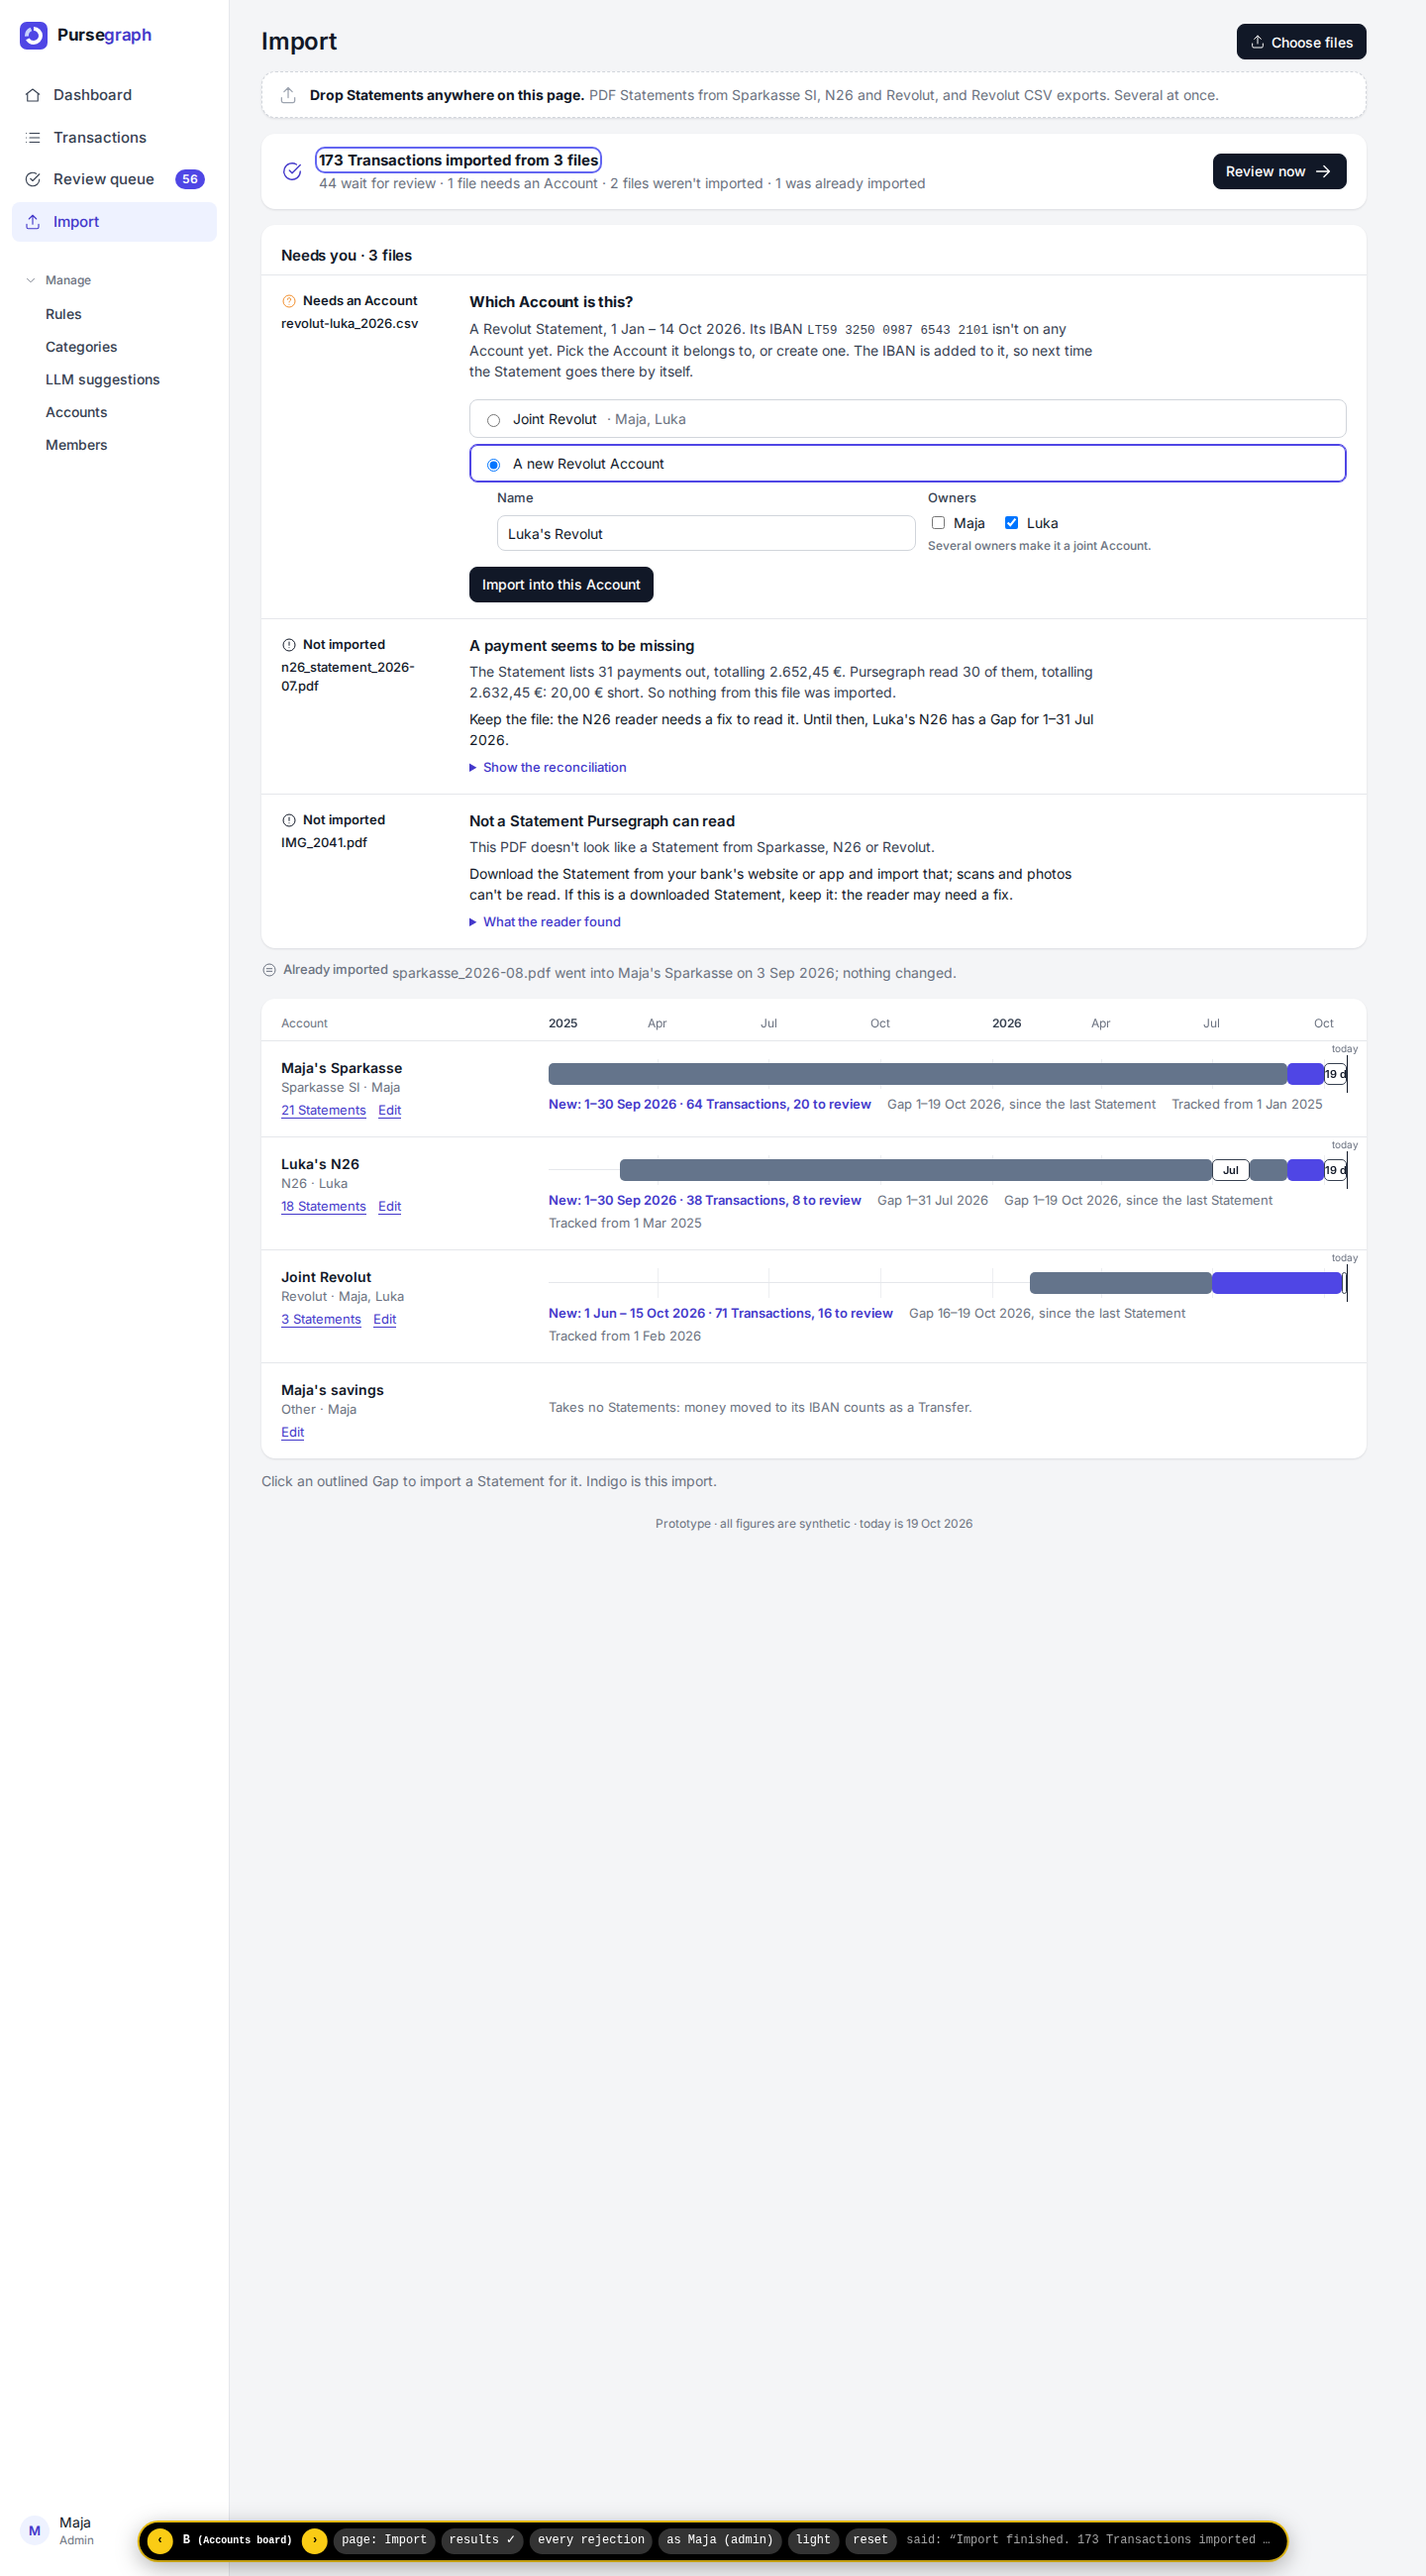
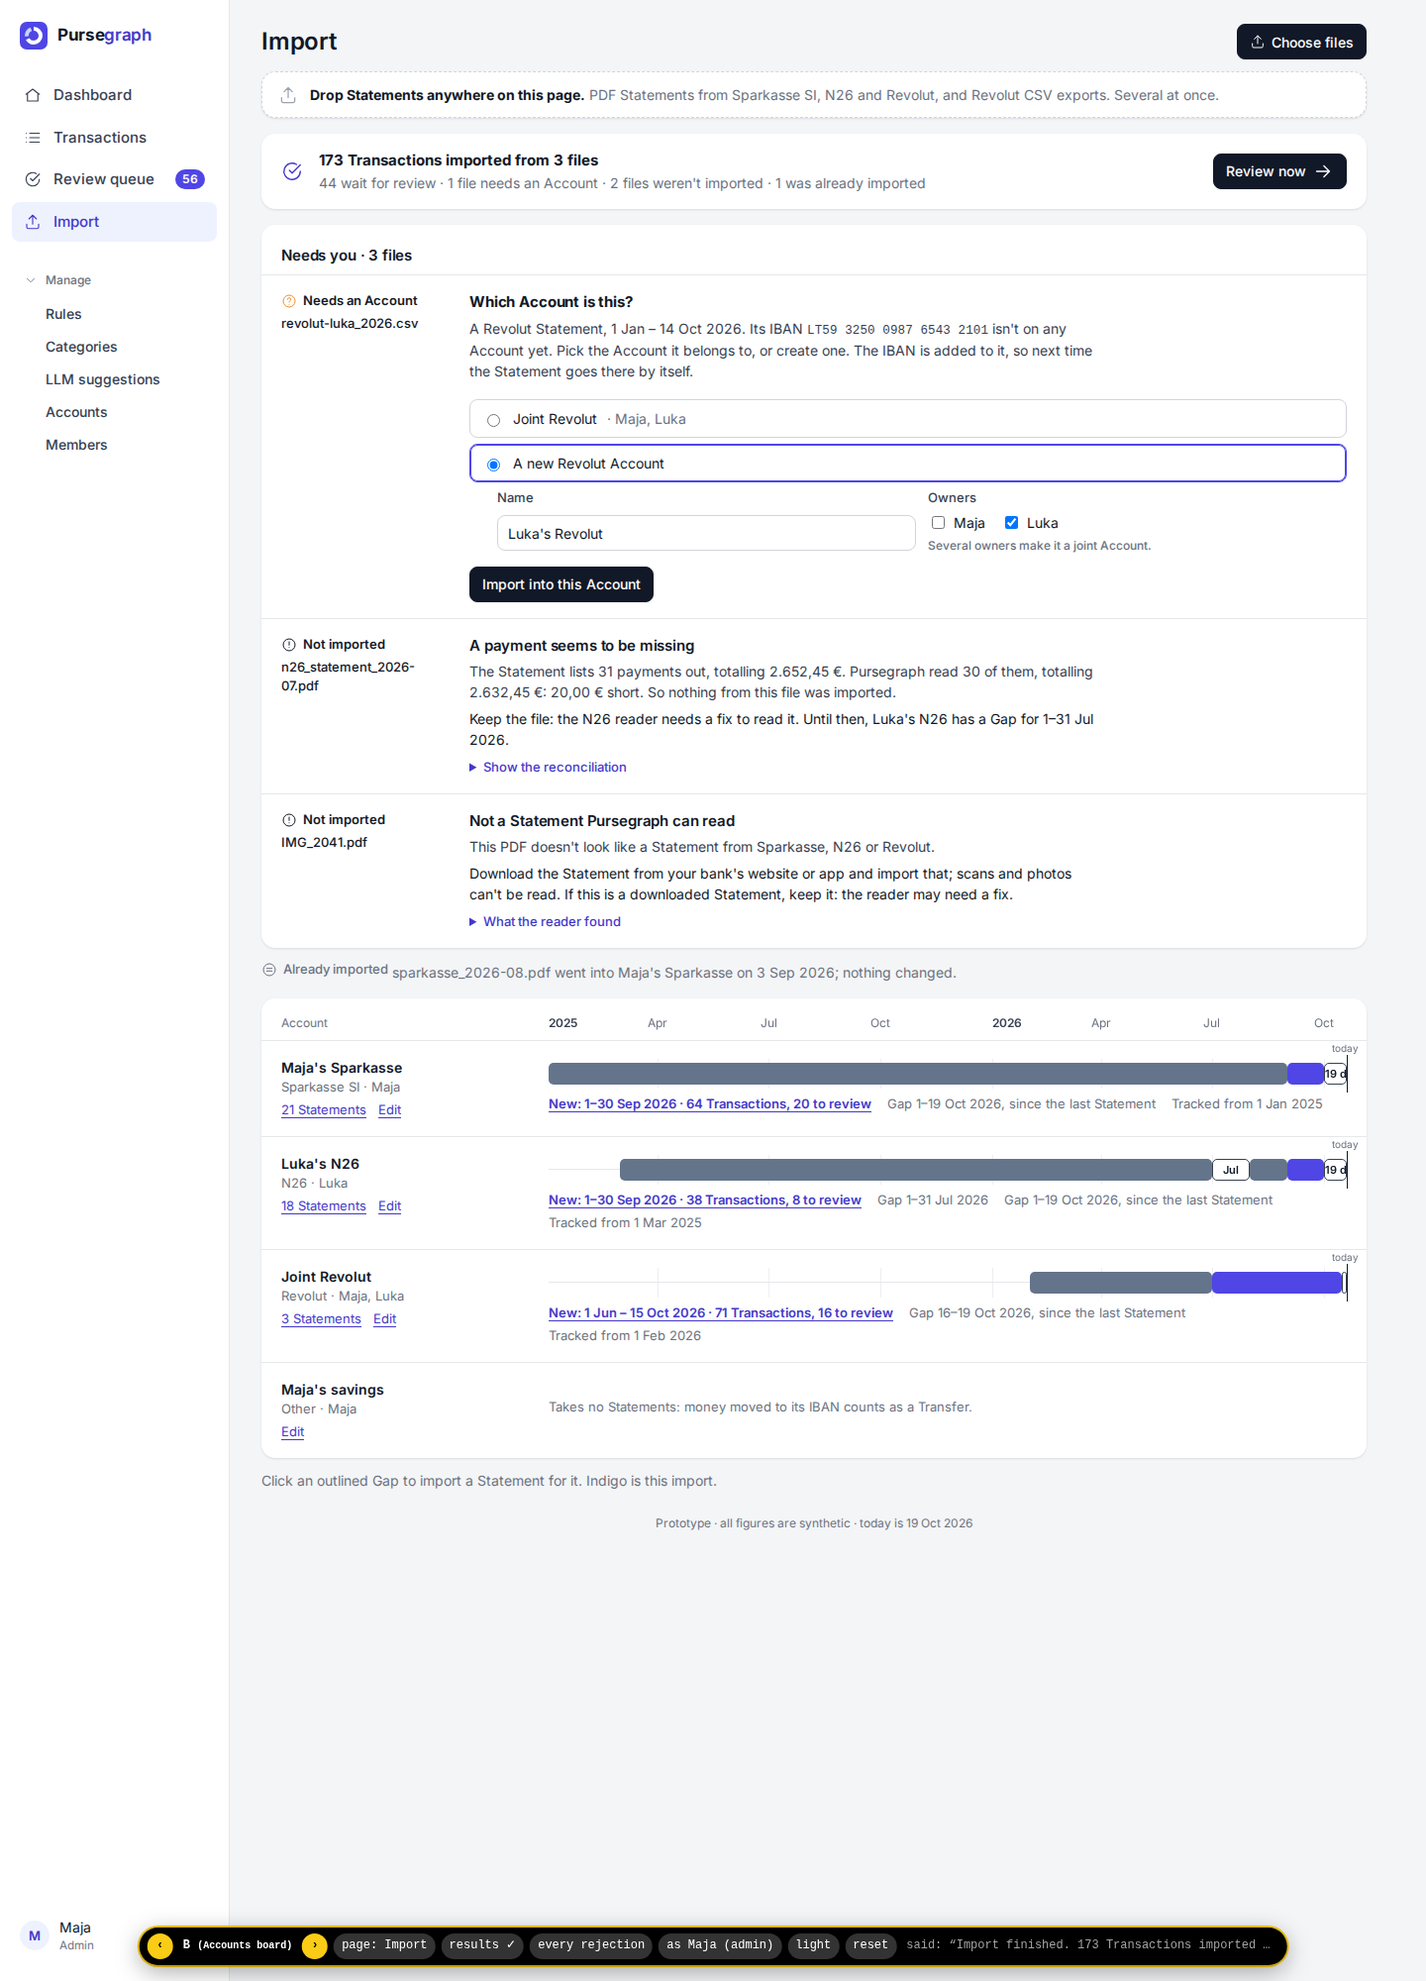
PROTOTYPE #86: verdict B; B's New caption opens the domain counts

diff --git a/prototypes/86-import-accounts/index.html b/prototypes/86-import-accounts/index.html
@@ -835,11 +835,12 @@ function boardRow(a, mode) {
       ? `<button class="seg gap" type="button" style="left:${xp(s.start)}%;width:${xp(s.start + s.days * DAY) - xp(s.start)}%" data-gap="${a.id}:${s.start}:${s.end}" aria-label="${gapText(s)}: import a Statement" title="${gapText(s)}">${xp(s.start + s.days * DAY) - xp(s.start) > 2.2 ? gapLabel(s) : ''}</button>`
       : `<span class="seg covered${s.kind === 'new' ? ' new' : ''}" style="left:${xp(s.start)}%;width:${xp(s.start + s.days * DAY) - xp(s.start)}%" title="${segText(s)}" aria-hidden="true"></span>`).join('')}
       <span class="today" style="left:100%" aria-hidden="true"><span>today</span></span></div>${srList(a)}
-    <div class="track-note">${res && res.length ? res.map(r => `<span class="new-t">New: ${fr(r.start, r.end)} · ${pl(r.c.imported, 'Transaction', 'Transactions')}, ${r.c.waiting + r.c.ambiguous} to review</span>`).join('') : ''}
+    <div class="track-note">${res && res.length ? res.map(r => `<button class="link new-t" type="button" data-toggle="c${a.id}" aria-expanded="${!!S.open['c' + a.id]}">New: ${fr(r.start, r.end)} · ${pl(r.c.imported, 'Transaction', 'Transactions')}, ${r.c.waiting + r.c.ambiguous} to review</button>`).join('') : ''}
       ${gaps(a).map(g => `<span>${gapText(g)}</span>`).join('')}<span>Tracked from ${fd(segs[0].start)}</span></div>`
     : `<p class="no-stmts">Takes no Statements: money moved to its IBAN counts as a Transfer.</p>`;
   let expand = '';
   if (editing) expand = `<div class="expand"><div>${accountForm(a)}</div><div><h4>Delete</h4>${deleteBlock(a)}</div></div>`;
+  else if (S.open['c' + a.id] && res && res.length) expand = `<div class="expand" style="grid-template-columns:1fr">${res.map(r => `<div><h4>${esc(r.file)}</h4>${counts(r)}</div>`).join('')}</div>`;
   else if (open) expand = `<div class="expand" style="grid-template-columns:1fr">${stmtTable(a)}</div>`;
   return `<div class="board-row${open || editing ? ' open' : ''}">${who}<div>${track}</div>${expand}</div>`;
 }

diff --git a/prototypes/86-import-accounts/README.md b/prototypes/86-import-accounts/README.md
@@ -58,4 +58,11 @@ The batch contains:
 
 ## Findings
 
-_Pending: the user's pick._
+**Verdict: B, the Accounts board.** Import is the Household's Accounts on one shared time axis, with files dropped onto the page. Accounts (Manage, admins) is the same board, with rows that edit in place.
+
+- **The stripes conflict is settled B's way.** Gaps are outlined slots with text, and the hatch stays reserved for Awaiting review, as DESIGN.md says.
+- **The domain counts stay.** B's first cut showed only "New: 1–30 Sep · 64 Transactions, 20 to review". That caption is now a disclosure that opens the full counts, because the counts are part of the trust ritual the ticket keeps.
+- **Leaving mid-import is out of scope for #86.** The import is one POST, so leaving during "checking" still imports everything, but the per-file outcomes (rejections, the Account choice) are lost.
+- **A's and C's parts that didn't win:** A's per-file report and C's guided steps. C's step 3 also can't be reopened after leaving, which made the lost-response problem most visible.
+
+Shots are in `shots/`: each variant's results, A's and C's Accounts, B idle in dark, and C idle.
